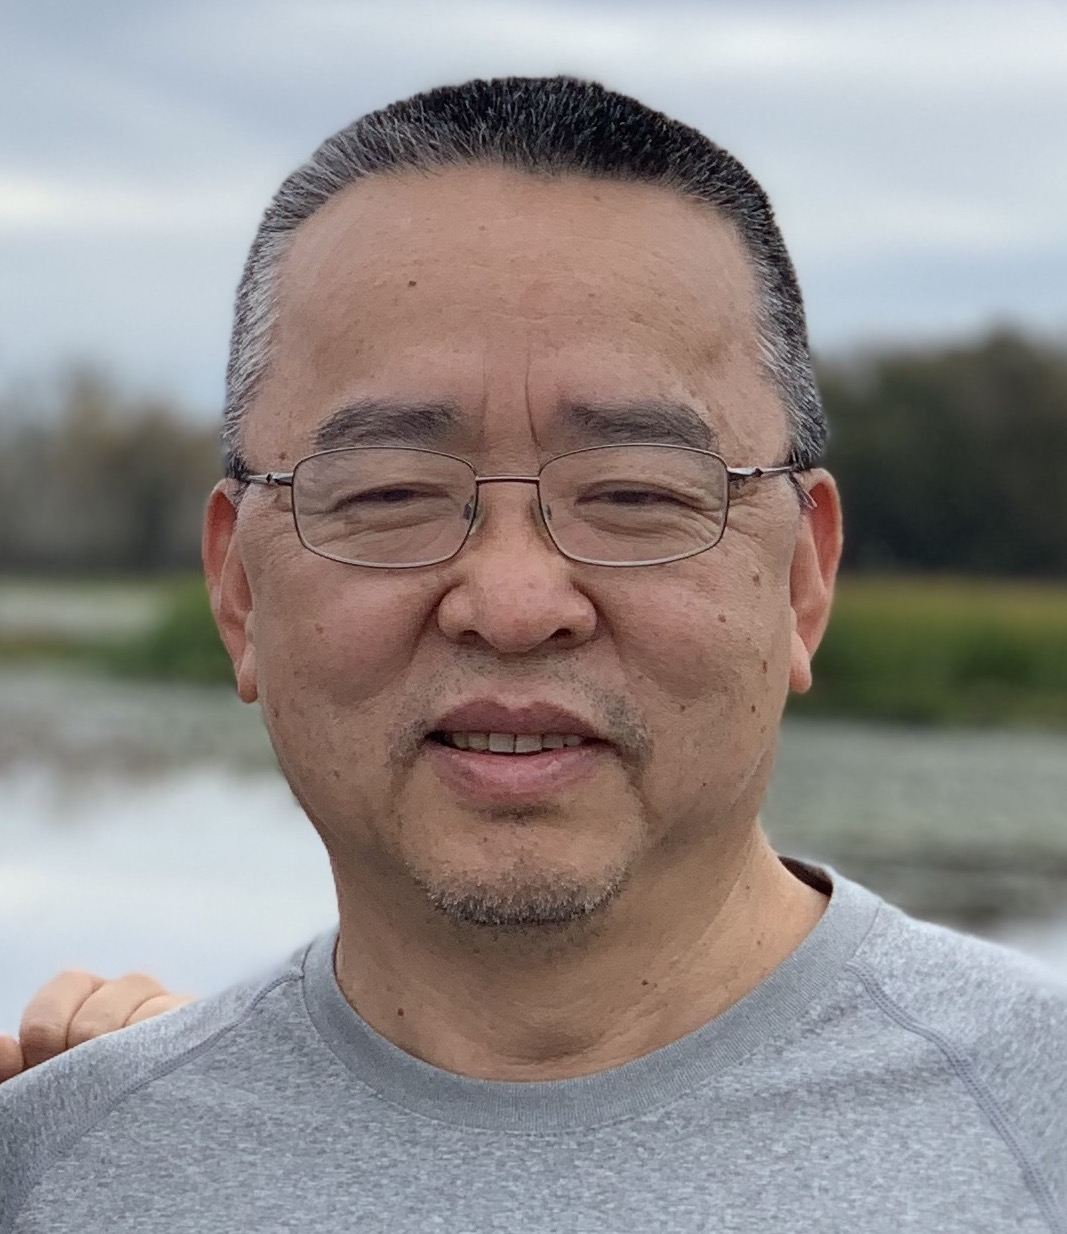
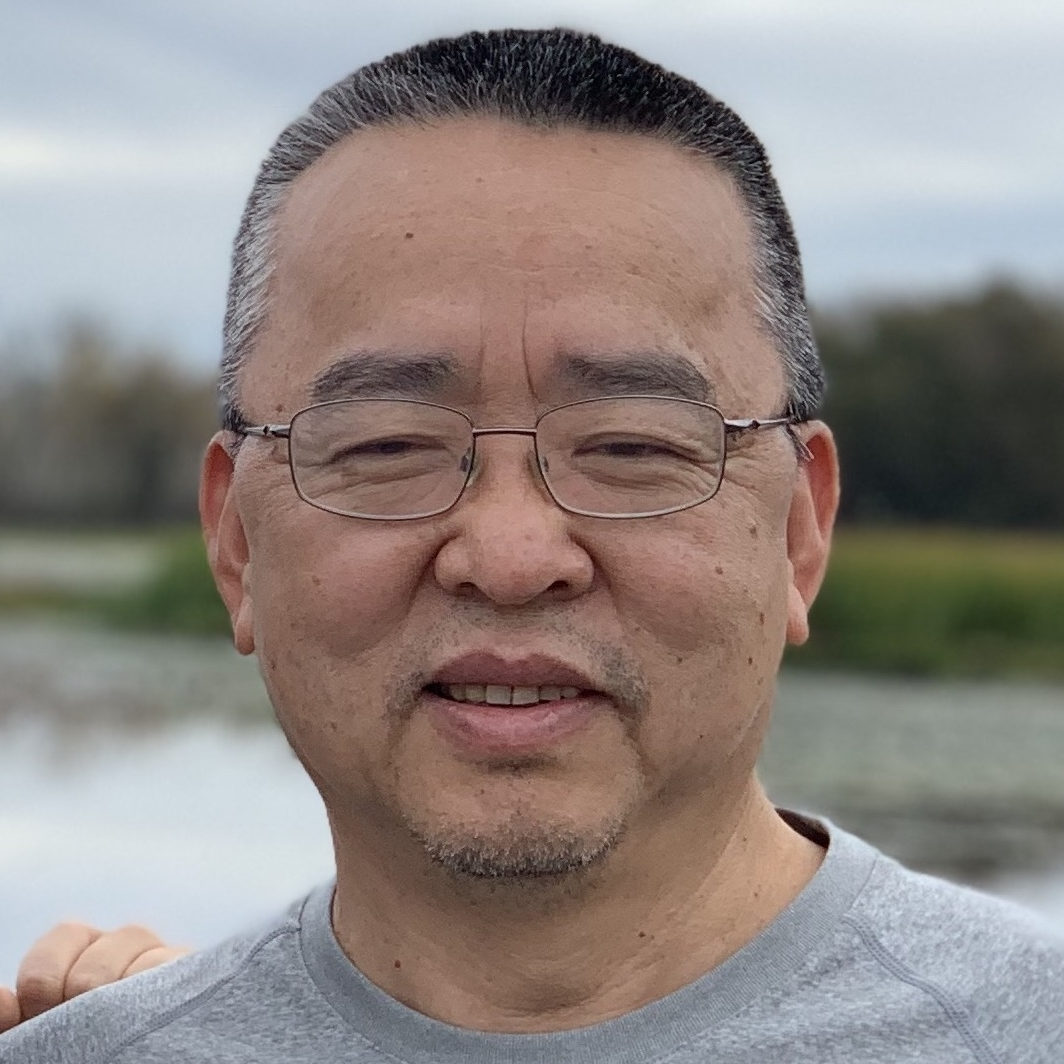
image resizing

diff --git a/assets/css/main.css b/assets/css/main.css
@@ -3348,7 +3348,7 @@ input, select, textarea {
 				.posts article .image img {
 					display: block;
 					width: 100%;
-					height: 18em;
+					/*height: 18em;*/
 				}
 
 		@media screen and (min-width: 1681px) {
